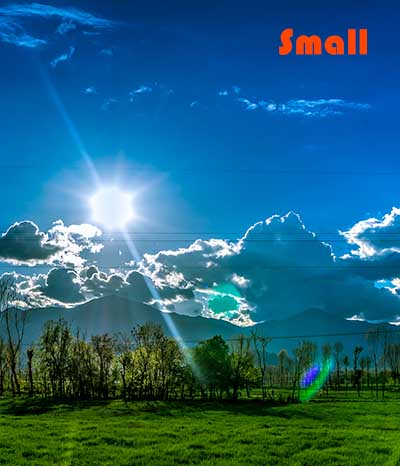
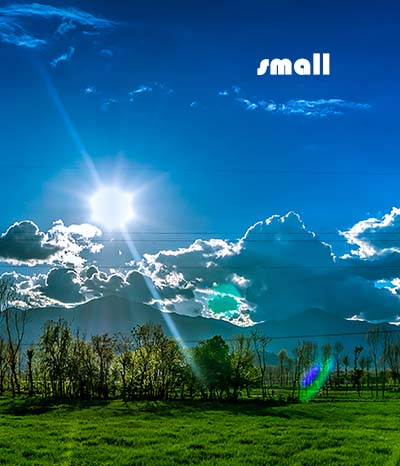
Week 6 Update 1

diff --git a/lesson6/css/large.css b/lesson6/css/large.css
@@ -80,7 +80,7 @@
 
 	.weathersummary {
 		position: absolute;
-		top: 28em;
+		top: 25em;
 		left: 12em;
 		color: white;
 		min-width: 20%;
